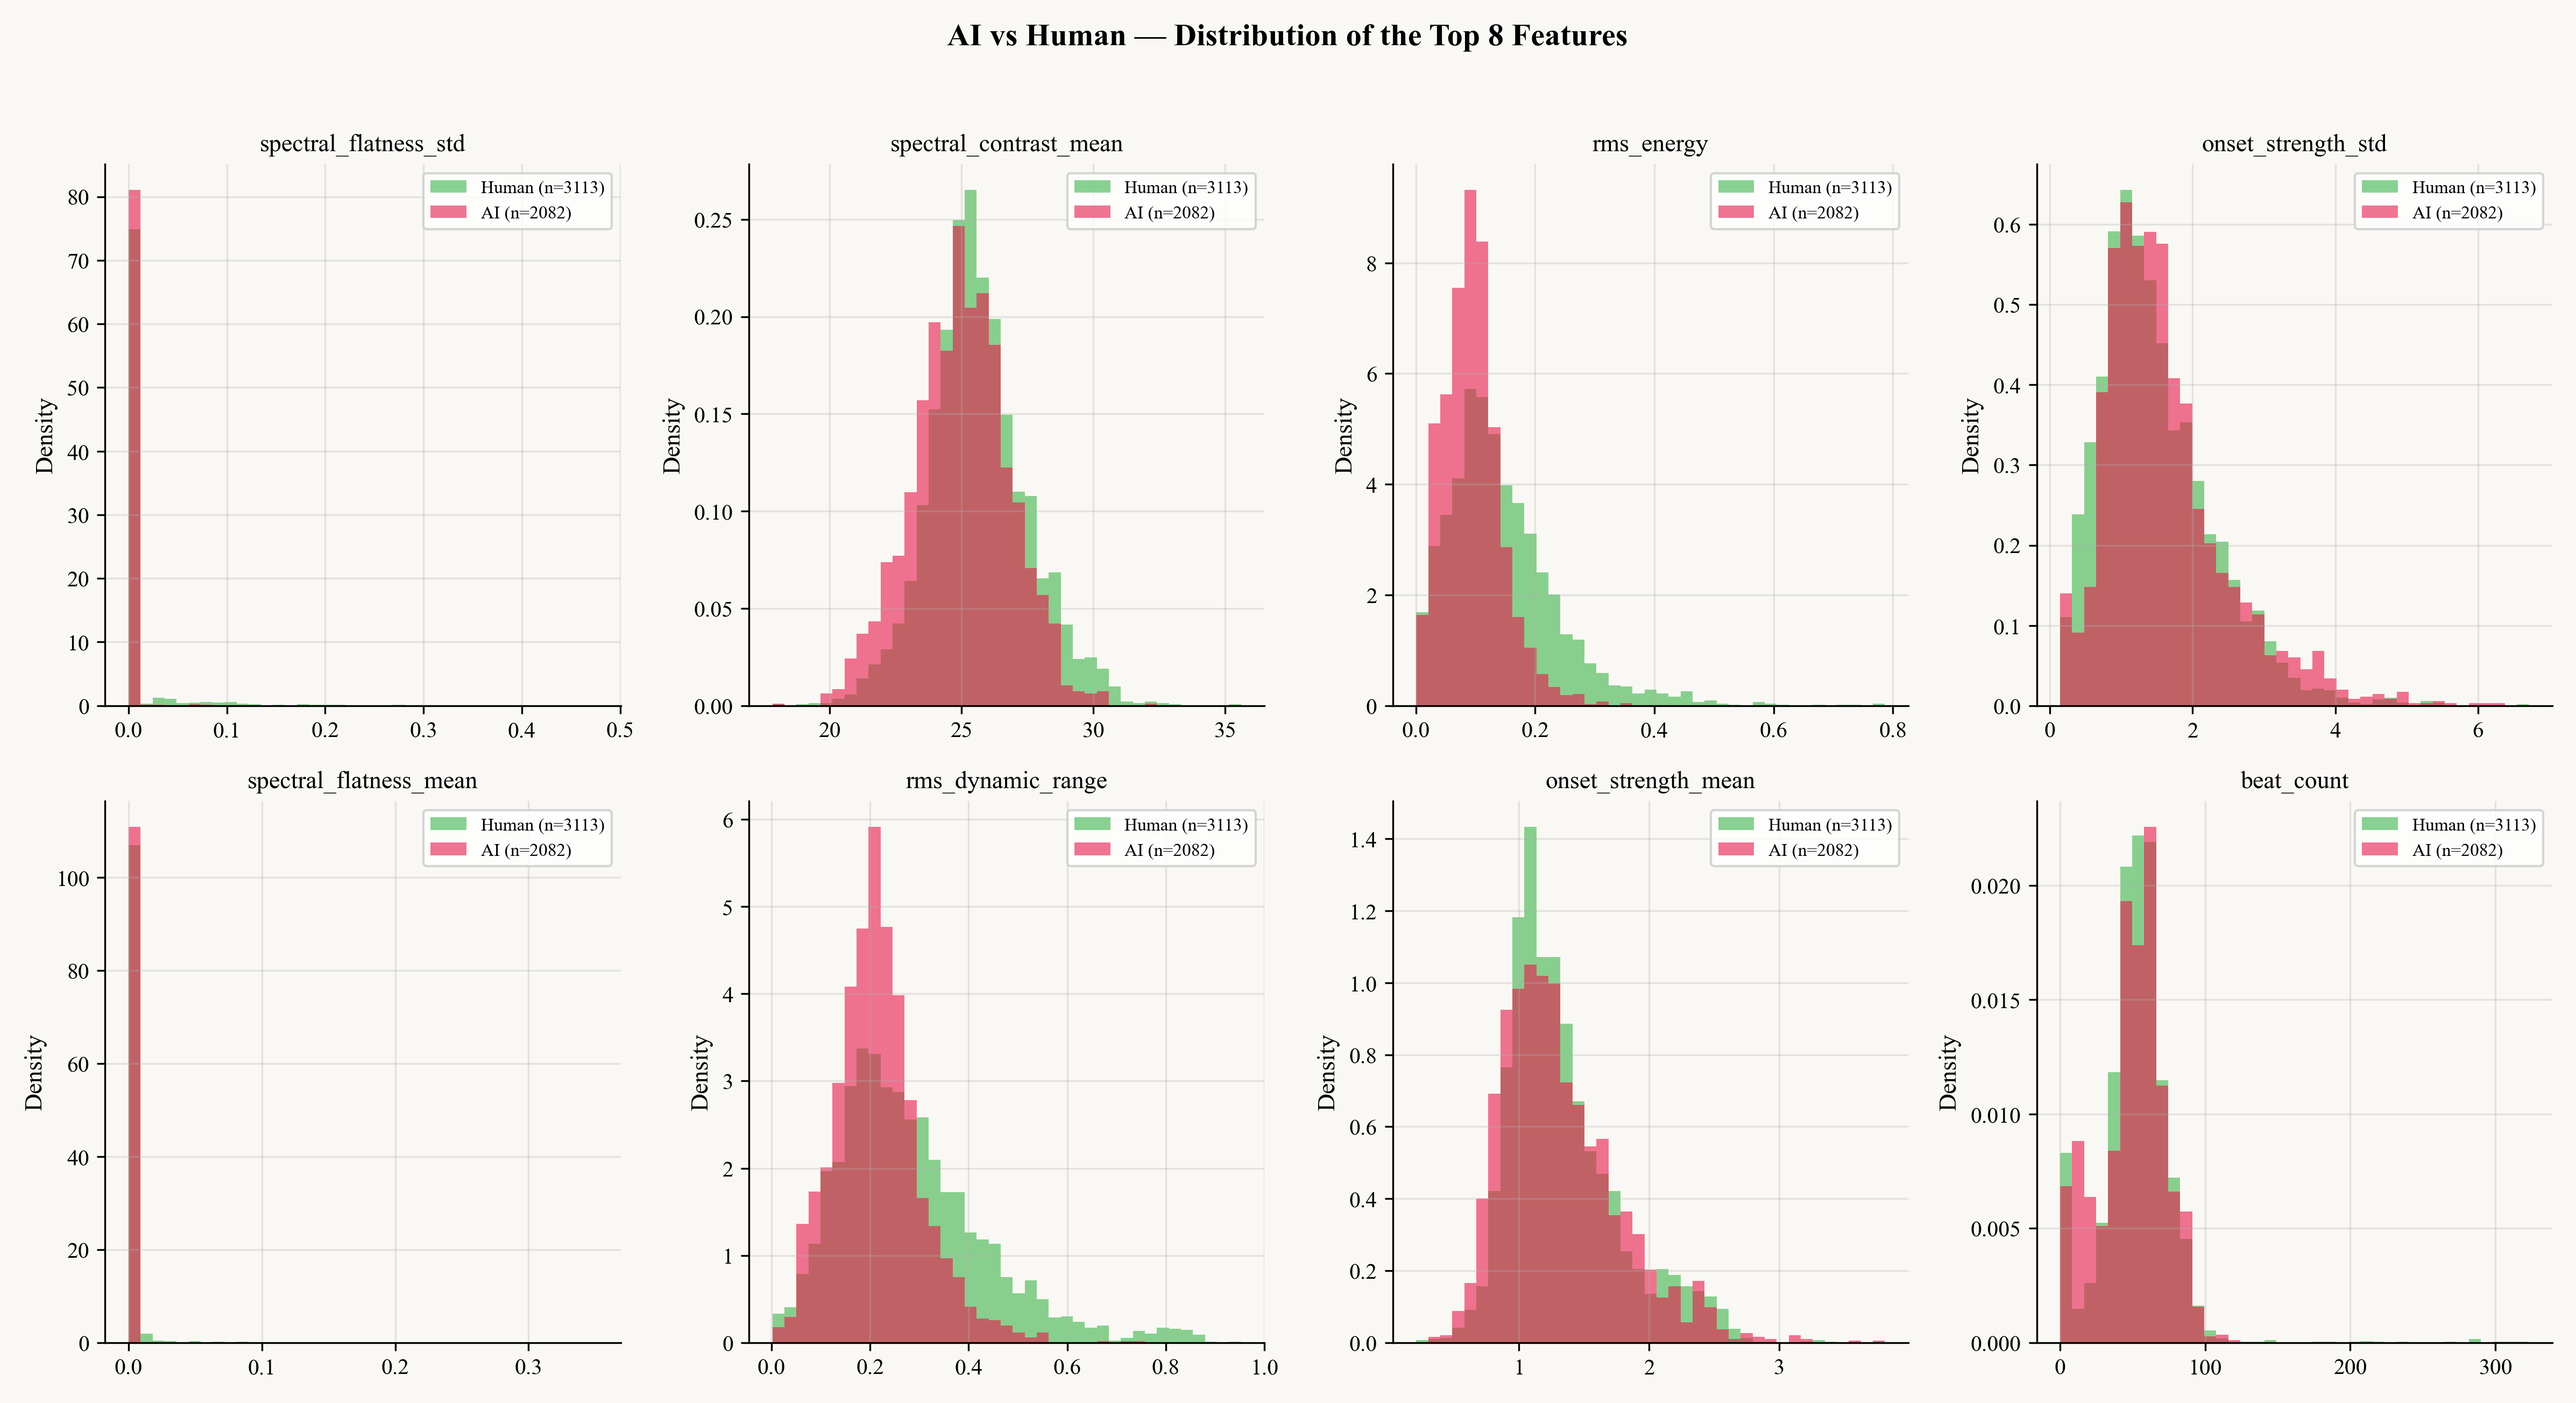
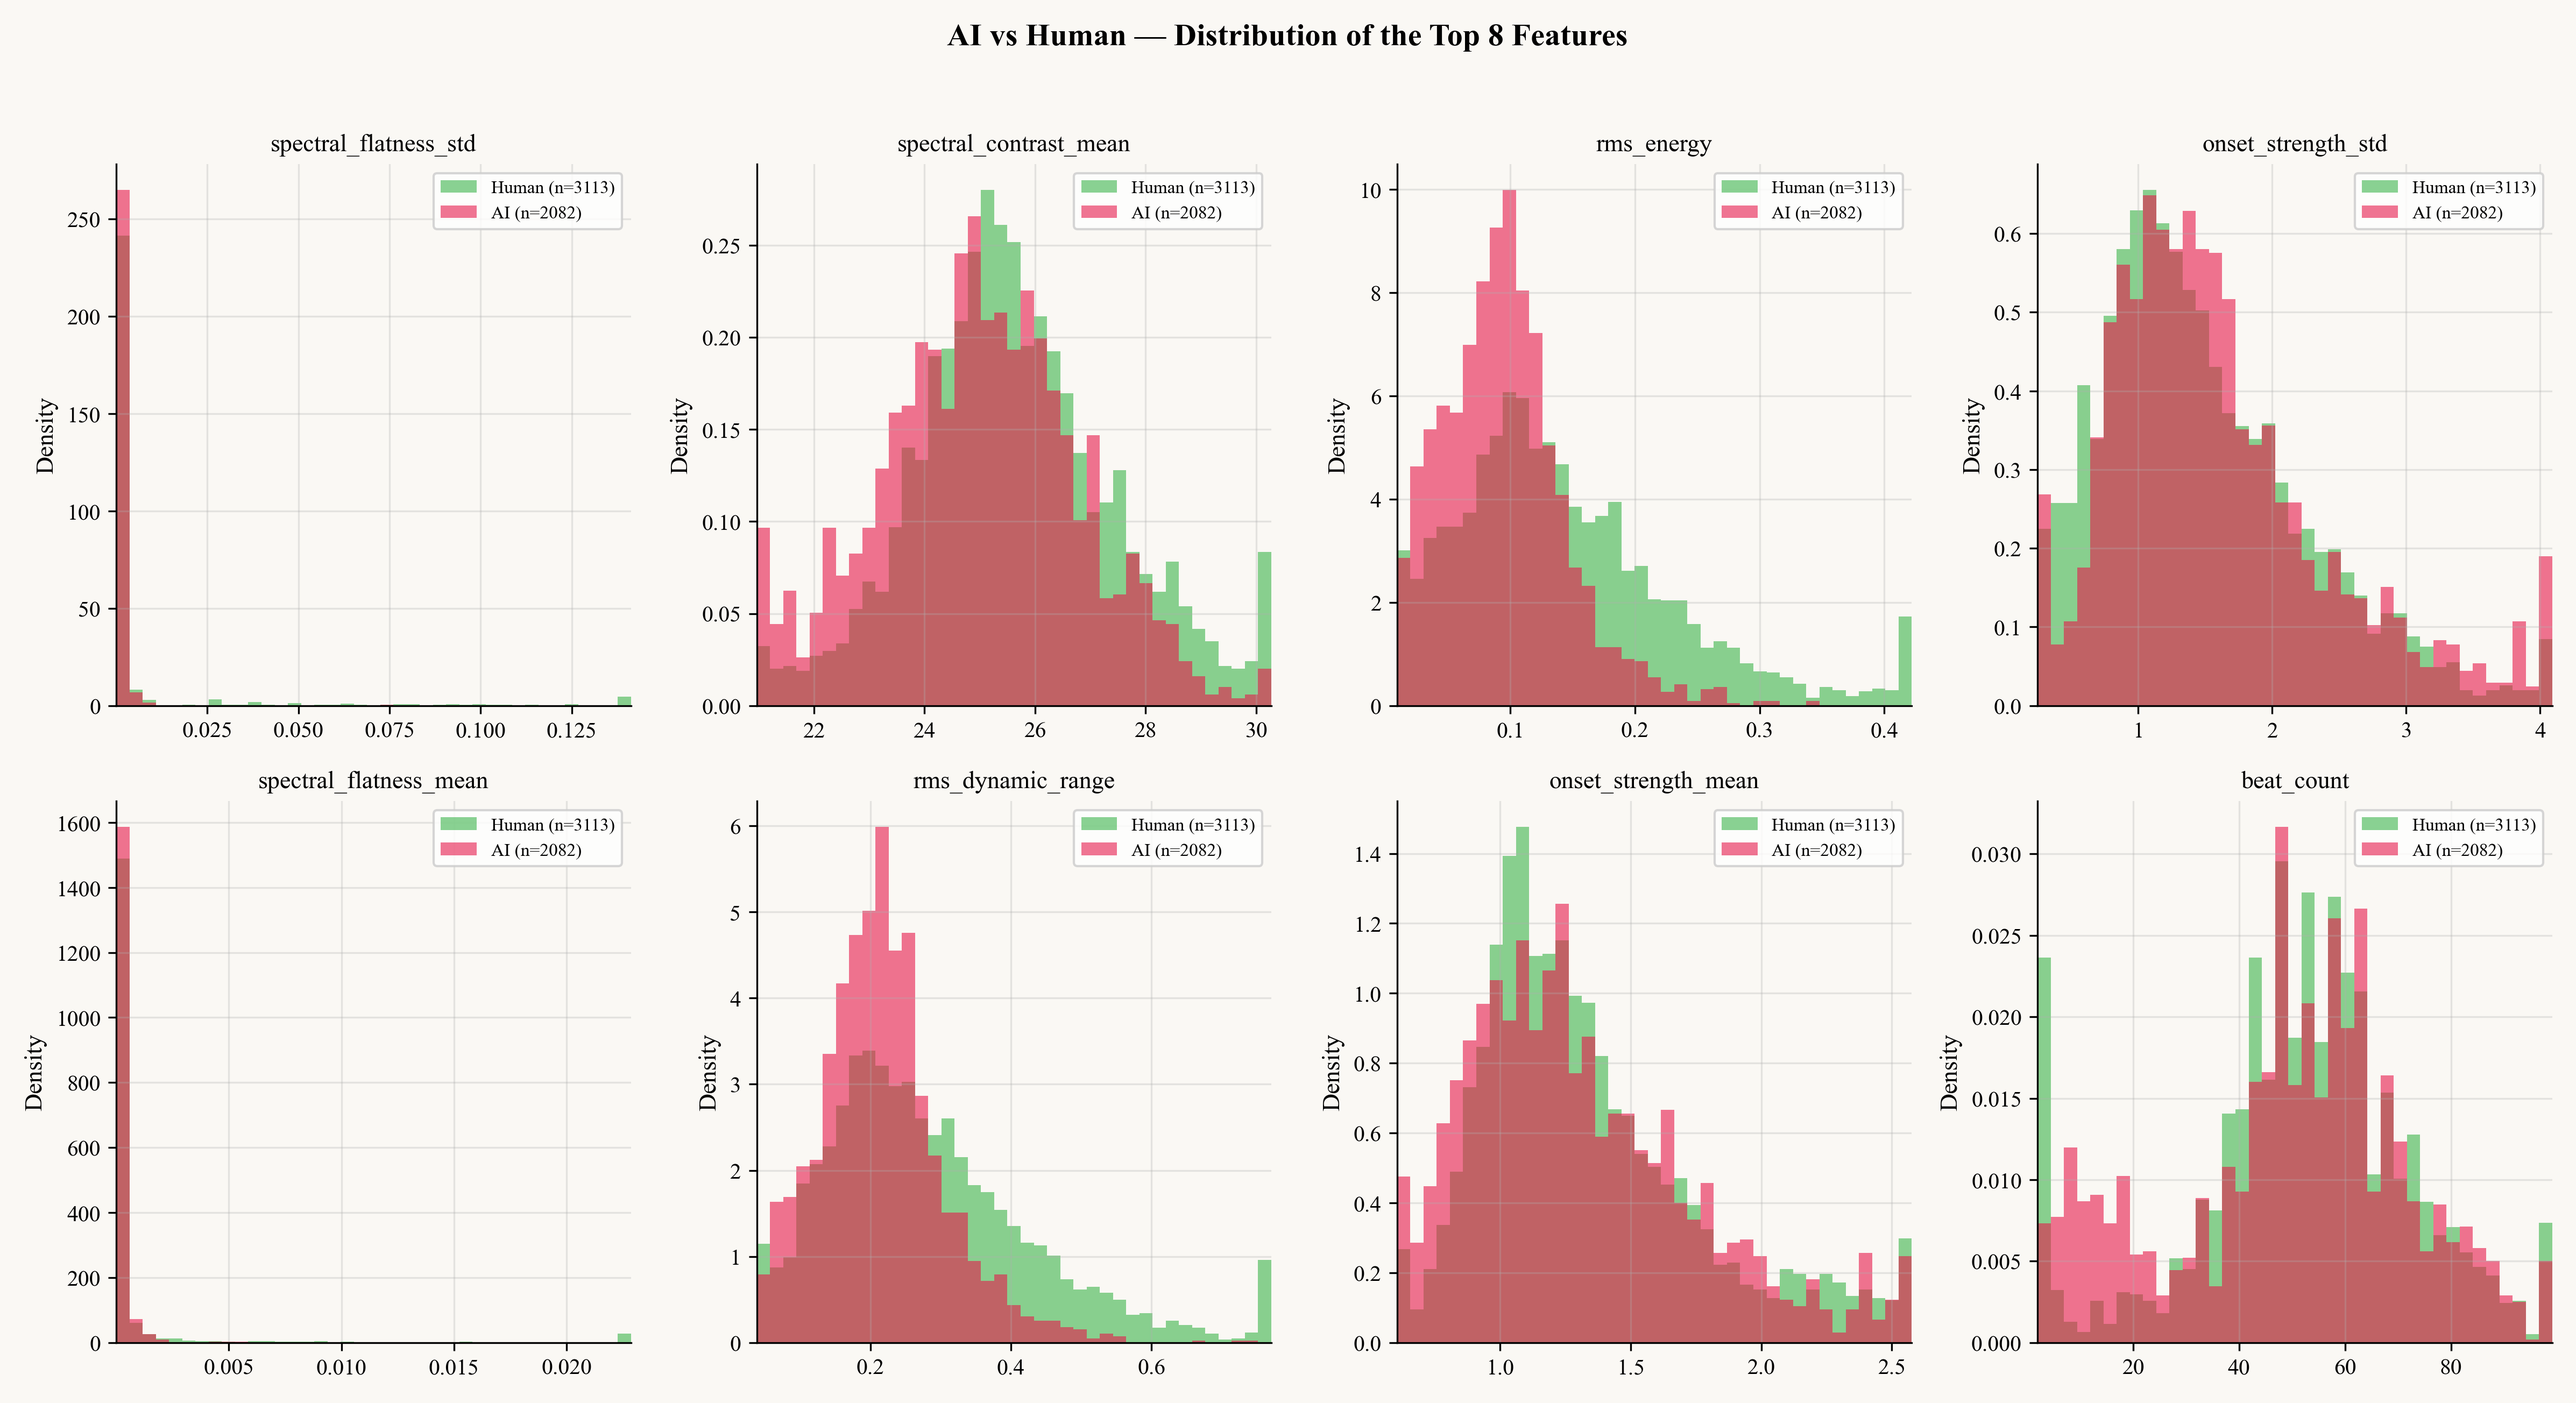
refactor: update references in AURIS_references.bib and AURIS_references.ris; enhance figure generation in regenerate_figures.py

diff --git a/docs/academic/paper/build_docx.py b/docs/academic/paper/build_docx.py
@@ -438,7 +438,7 @@ def build():
         "speaker identity to verify, and prosody plays a very different role. Instead, music "
         "presents harmonic complexity, polyphony, percussion, and recording artefacts that vary "
         "widely between human studios and synthetic pipelines. Recent surveys frame the field as "
-        "nascent (Liu et al., 2024; Yi et al., 2023), and Bhatt et al. (2025) argue that "
+        "nascent (Li et al., 2024; Yi et al., 2023), and Li et al. (2024) argue that "
         "cross-generator generalisation — the ability to detect tracks produced by systems unseen "
         "during training — is the central open challenge."
     ))
@@ -447,8 +447,8 @@ def build():
         "Two contrasting lines of recent work make this trade-off explicit. Afchar et al. (2025) "
         "showed at IEEE ICASSP 2025 that a detector trained to recognise auto-encoder artefacts "
         "can reach 99.8% accuracy by exploiting spectral residues introduced by neural vocoders, "
-        "but the same detector degrades sharply under MP3 compression or pitch shifting. Kosta et "
-        "al. (2025), in turn, proposed the Segment Transformer, which embeds short music segments "
+        "but the same detector degrades sharply under MP3 compression or pitch shifting. Kim and "
+        "Go (2025), in turn, proposed the Segment Transformer, which embeds short music segments "
         "with a pre-trained encoder and aggregates them through a transformer head to capture "
         "structural patterns across an entire composition. Both directions accept the same premise: "
         "no single feature family is robust enough on its own."
@@ -562,19 +562,19 @@ def build():
 
     subheading(doc, "2.5. Recent Advances in AI Music Detection (2025–2026)")
     body(doc, (
-        "The most directly relevant work appeared during 2024–2025. Liu et al. (2024) provide a "
+        "The most directly relevant work appeared during 2024–2025. Li et al. (2024) provide a "
         "pathway and overview connecting audio deepfake detection methodology to the emerging "
-        "domain of AI music detection, cataloguing transferable features and identifying domain "
-        "gaps. Afchar et al. (2025), in their IEEE ICASSP 2025 paper, demonstrate that detectors "
-        "trained on auto-encoder artefacts can reach 99.8% accuracy by exploiting decoder "
-        "fingerprints — spectral residues introduced by neural vocoders — rather than musical "
-        "content. The same study also identifies a critical robustness limitation: simple audio "
-        "manipulations such as MP3 compression or pitch shifting substantially degrade detection "
-        "rates. Kosta et al. (2025) propose the Segment Transformer, which processes sequences "
-        "of short music segments through a transformer head and integrates self-supervised "
-        "pre-trained representations to capture structural patterns at the song level. Bhatt et "
-        "al. (2025) survey the dataset landscape and emphasise that cross-generator generalisation "
-        "remains the primary open problem in the field."
+        "domain of AI music detection, cataloguing transferable features, identifying domain "
+        "gaps, and emphasising that cross-generator generalisation remains the primary open "
+        "problem in the field. Afchar et al. (2025), in their IEEE ICASSP 2025 paper, demonstrate "
+        "that detectors trained on auto-encoder artefacts can reach 99.8% accuracy by exploiting "
+        "decoder fingerprints — spectral residues introduced by neural vocoders — rather than "
+        "musical content. The same study also identifies a critical robustness limitation: simple "
+        "audio manipulations such as MP3 compression or pitch shifting substantially degrade "
+        "detection rates. Kim and Go (2025) propose the Segment Transformer, which processes "
+        "sequences of short music segments through a transformer head and integrates "
+        "self-supervised pre-trained representations to capture structural patterns at the song "
+        "level."
     ))
 
     # ╔════════════════════════════════════════════════════════════════════╗
@@ -1011,7 +1011,7 @@ def build():
         "76.3%. The two failure points — the deepfake subset and the SleepyJesse covers — point "
         "in the same direction: tracks whose acoustic profile differs systematically from the "
         "rest of their class label are the ones the model struggles with, consistent with the "
-        "cross-generator generalisation challenge highlighted by Bhatt et al. (2025)."
+        "cross-generator generalisation challenge highlighted by Li et al. (2024)."
     ))
 
     figure(doc, "per_source_performance.png",
@@ -1194,7 +1194,7 @@ def build():
         "compression, pitch shifting and time-stretching. Fourth, the dataset will be expanded "
         "toward ten thousand samples and updated to include emerging generation systems as they "
         "appear, with particular attention to the cross-generator generalisation challenge "
-        "identified by Bhatt et al. (2025)."
+        "identified by Li et al. (2024)."
     ))
 
     # ╔════════════════════════════════════════════════════════════════════╗
@@ -1230,10 +1230,6 @@ def build():
         "self-supervised learning of speech representations. Advances in Neural Information "
         "Processing Systems, 33, 12449–12460. https://doi.org/10.5555/3495724.3496768",
 
-        "Bhatt, A., Rajan, A., et al. (2025). AI-generated music detection: A survey of methods "
-        "and datasets. arXiv preprint arXiv:2501.10111. "
-        "https://doi.org/10.48550/arXiv.2501.10111",
-
         "Copet, J., Kreuk, F., Gat, I., Remez, T., Kant, D., Synnaeve, G., Adi, Y., & Défossez, "
         "A. (2023). Simple and controllable music generation. Advances in Neural Information "
         "Processing Systems, 36. https://doi.org/10.48550/arXiv.2306.05284",
@@ -1254,21 +1250,22 @@ def build():
         "Discover Internet of Things, 4, Article 1. "
         "https://doi.org/10.1007/s43926-023-00049-y",
 
-        "Kosta, K., Meseguer Brocal, G., Afchar, D., & Hennequin, R. (2025). Segment Transformer: "
-        "AI-generated music detection via music structural analysis. arXiv preprint "
-        "arXiv:2509.08283. https://doi.org/10.48550/arXiv.2509.08283",
+        "Kim, Y., & Go, S. (2025). Segment Transformer: AI-generated music detection via music "
+        "structural analysis. arXiv preprint arXiv:2509.08283. "
+        "https://doi.org/10.48550/arXiv.2509.08283",
 
         "Kostrzewa, D., Mazur, W., & Brzeski, R. (2022). Wide ensembles of neural networks in "
-        "music genre classification. In Proceedings of MISSI 2022, Lecture Notes in Networks "
-        "and Systems (pp. 91–102). Springer. https://doi.org/10.1007/978-3-031-08754-7_9",
+        "music genre classification. In Computational Science — ICCS 2022, Lecture Notes in "
+        "Computer Science (Vol. 13351, pp. 91–102). Springer. "
+        "https://doi.org/10.1007/978-3-031-08754-7_9",
+
+        "Li, Y., Milling, M., Specia, L., & Schuller, B. W. (2024). From audio deepfake detection "
+        "to AI-generated music detection: A pathway and overview. arXiv preprint "
+        "arXiv:2412.00571. https://doi.org/10.48550/arXiv.2412.00571",
 
         "Liu, H., Chen, Z., Yuan, Y., Mei, X., Liu, X., Mandic, D., Wang, W., & Plumbley, M. D. "
         "(2023). AudioLDM: Text-to-audio generation with latent diffusion models. In "
         "Proceedings of ICML 2023. https://doi.org/10.48550/arXiv.2301.12503",
-
-        "Liu, Y., et al. (2024). From audio deepfake detection to AI-generated music detection: "
-        "A pathway and overview. arXiv preprint arXiv:2412.00571. "
-        "https://doi.org/10.48550/arXiv.2412.00571",
 
         "Liu, Y., Yin, Y., Zhu, Q., & Cui, W. (2022). Musical instrument recognition by XGBoost "
         "combining feature fusion. arXiv preprint arXiv:2206.00901. "

diff --git a/docs/academic/paper/real_analysis.py b/docs/academic/paper/real_analysis.py
@@ -390,20 +390,31 @@ def real_roc_curves(X, y):
     for color, (name, fname) in zip(palette, model_files.items()):
         template = joblib.load(MODELS / fname)
         oof = np.zeros_like(y, dtype=float)
+        fold_aucs = []
         for tr_idx, va_idx in skf.split(Xs, y):
             mdl = clone(template)
             mdl.fit(Xs[tr_idx], y[tr_idx])
             if hasattr(mdl, "predict_proba"):
-                oof[va_idx] = mdl.predict_proba(Xs[va_idx])[:, 1]
+                p = mdl.predict_proba(Xs[va_idx])[:, 1]
             else:
-                oof[va_idx] = mdl.decision_function(Xs[va_idx])
+                p = mdl.decision_function(Xs[va_idx])
+            oof[va_idx] = p
+            f_fpr, f_tpr, _ = roc_curve(y[va_idx], p)
+            fold_aucs.append(float(auc(f_fpr, f_tpr)))
         fpr, tpr, _ = roc_curve(y, oof)
         a = auc(fpr, tpr)
-        auc_log.append({"model": name, "oof_auc": float(a)})
+        auc_log.append({
+            "model": name,
+            "oof_auc": float(a),
+            "fold_mean_auc": float(np.mean(fold_aucs)),
+            "fold_std_auc": float(np.std(fold_aucs)),
+            "fold_aucs": ";".join(f"{v:.4f}" for v in fold_aucs),
+        })
         lw = 2.5 if name == "LightGBM" else 1.4
         ax.plot(fpr, tpr, color=color, lw=lw,
                 label=f"{name} (AUC = {a:.4f})")
-        print(f"  ROC {name:<22} OOF AUC = {a:.4f}")
+        print(f"  ROC {name:<22} OOF AUC = {a:.4f}  "
+              f"fold mean+/-std = {np.mean(fold_aucs):.4f}+/-{np.std(fold_aucs):.4f}")
 
     ax.plot([0, 1], [0, 1], "k--", lw=1, alpha=0.4, label="Random (AUC = 0.500)")
     ax.set_xlabel("False Positive Rate")

diff --git a/docs/academic/paper/regenerate_figures.py b/docs/academic/paper/regenerate_figures.py
@@ -112,15 +112,21 @@ def regen_feature_distribution() -> None:
         h_vals = human[feat].dropna()
         a_vals = ai[feat].dropna()
 
-        # Determine bin edges from combined range for visual consistency
-        lo = float(min(h_vals.min(), a_vals.min()))
-        hi = float(max(h_vals.max(), a_vals.max()))
+        # Clip the x-range to the 1st-99th percentile of the combined data so
+        # that a handful of extreme outliers cannot crush the whole histogram
+        # into a single bar (this happened on the spectral_flatness panels).
+        combined = pd.concat([h_vals, a_vals])
+        lo = float(combined.quantile(0.01))
+        hi = float(combined.quantile(0.99))
+        if hi <= lo:                       # degenerate feature, fall back
+            lo, hi = float(combined.min()), float(combined.max())
         bins = np.linspace(lo, hi, 40)
 
-        ax.hist(h_vals, bins=bins, alpha=0.6, color=HUMAN_COLOR,
+        ax.hist(h_vals.clip(lo, hi), bins=bins, alpha=0.6, color=HUMAN_COLOR,
                 label=f"Human (n={len(h_vals)})", density=True)
-        ax.hist(a_vals, bins=bins, alpha=0.6, color=AI_COLOR,
+        ax.hist(a_vals.clip(lo, hi), bins=bins, alpha=0.6, color=AI_COLOR,
                 label=f"AI (n={len(a_vals)})", density=True)
+        ax.set_xlim(lo, hi)
         ax.set_title(feat, fontsize=11)
         ax.set_ylabel("Density")
         ax.legend(fontsize=8, loc="upper right")
